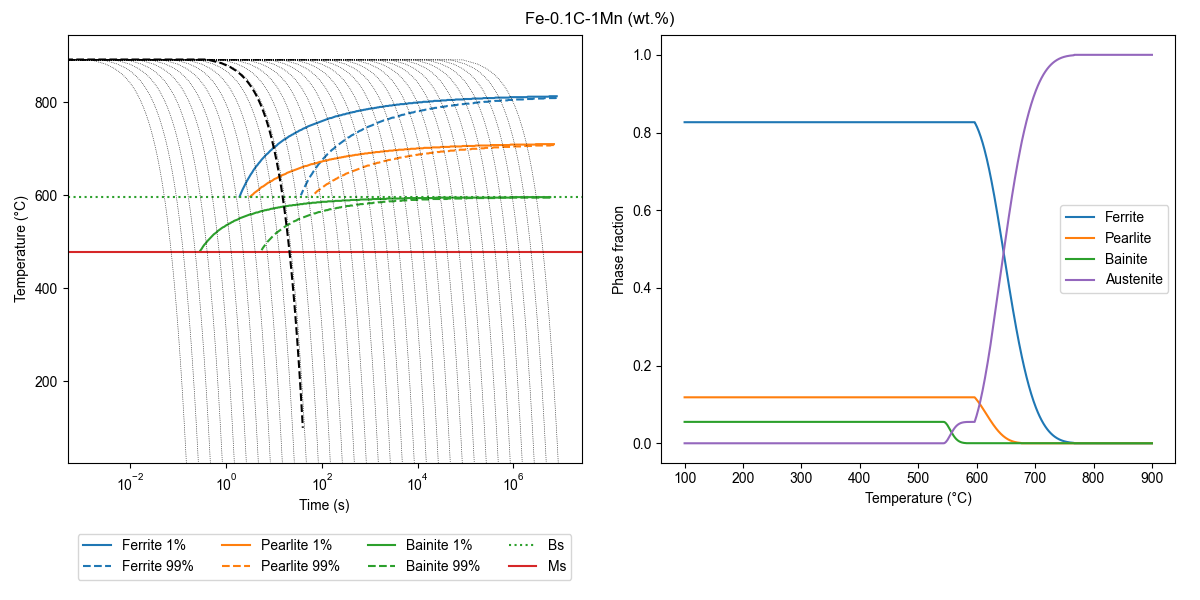
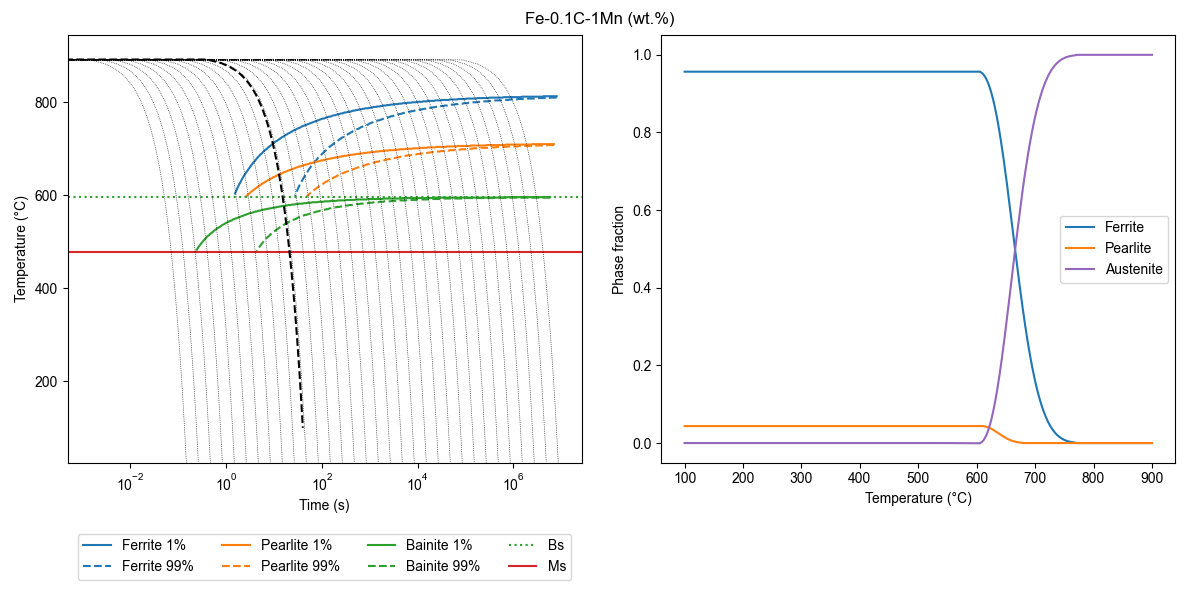
Documentation updated; Default grain size changed to 7

diff --git a/plot_phase_fractions.py b/plot_phase_fractions.py
@@ -17,7 +17,7 @@ if __name__ == '__main__':
     required_named.add_argument('-t', '--t', type=float, required=True, help='Total time (s)')
     required_named.add_argument('-phi', '--phi', type=float, default=0., help='Cooling rate (oC/s; if 0, isothermal)')
 
-    parser.add_argument('-g', '--gs', type=float, default=6, help='ASTM grain size number')
+    parser.add_argument('-g', '--gs', type=float, default=7, help='ASTM grain size number')
     parser.add_argument('-C', '--C', type=float, default=0., help='Carbon wt.%%')
     parser.add_argument('-Si', '--Si', type=float, default=0., help='Silicon wt.%%')
     parser.add_argument('-Mn', '--Mn', type=float, default=0., help='Manganese wt.%%')

diff --git a/plot_diagrams.py b/plot_diagrams.py
@@ -12,7 +12,7 @@ if __name__ == '__main__':
     parser = argparse.ArgumentParser(description='Script for plotting TTT and CCT diagrams',
                                      formatter_class=argparse.ArgumentDefaultsHelpFormatter)
 
-    parser.add_argument('-g', '--gs', type=float, default=6, help='ASTM grain size number')
+    parser.add_argument('-g', '--gs', type=float, default=7, help='ASTM grain size number')
     parser.add_argument('-C', '--C', type=float, default=0., help='Carbon wt.%%')
     parser.add_argument('-Si', '--Si', type=float, default=0., help='Silicon wt.%%')
     parser.add_argument('-Mn', '--Mn', type=float, default=0., help='Manganese wt.%%')

diff --git a/transformation_models.py b/transformation_models.py
@@ -15,7 +15,7 @@ K = 273.15
 
 def FahrenheitToCelsius(TF):
     """
-    Converts temperature in Fahrenheit to Celcius
+    Converts temperature in Fahrenheit to Celsius
     """
     return (TF - 32.)*5./9.
 

diff --git a/README.md b/README.md
@@ -29,7 +29,7 @@ Script for plotting TTT and CCT diagrams
 
 optional arguments:
   -h, --help            show this help message and exit
-  -g GS, --gs GS        ASTM grain size number (default: 6)
+  -g GS, --gs GS        ASTM grain size number (default: 7)
   -C C, --C C           Carbon wt.% (default: 0.0)
   -Si SI, --Si SI       Silicon wt.% (default: 0.0)
   -Mn MN, --Mn MN       Manganese wt.% (default: 0.0)
@@ -57,7 +57,7 @@ Script for plotting phase fraction curves for a given thermal cycle
 
 optional arguments:
   -h, --help            show this help message and exit
-  -g GS, --gs GS        ASTM grain size number (default: 6)
+  -g GS, --gs GS        ASTM grain size number (default: 7)
   -C C, --C C           Carbon wt.% (default: 0.0)
   -Si SI, --Si SI       Silicon wt.% (default: 0.0)
   -Mn MN, --Mn MN       Manganese wt.% (default: 0.0)
@@ -76,6 +76,10 @@ required arguments:
   -t T, --t T           Total time (s) (default: None)
   -phi PHI, --phi PHI   Cooling rate (oC/s; if 0, isothermal) (default: 0.0)
 ```
+
+Please notice that the grain size specified as the ASTM grain size number, defined by the [ASTM E112 standard](https://www.astm.org/Standards/E112.htm). The default value used in the scripts is 7, which correspond to an average diameter of about 30 μm. Use the table below as a reference:
+
+![ASTM E112 Table 4](literature/ASTME112-Table4.png)
 
 # Examples
 
